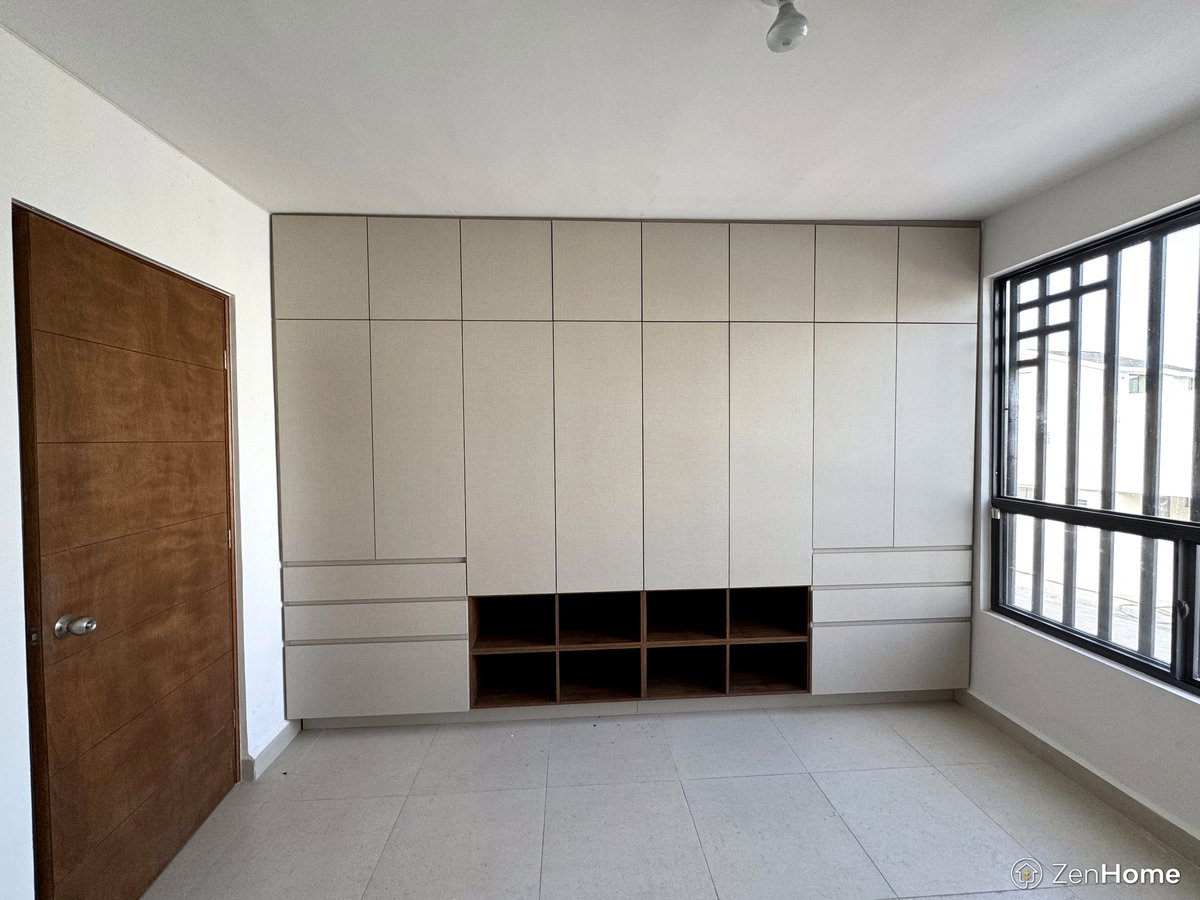
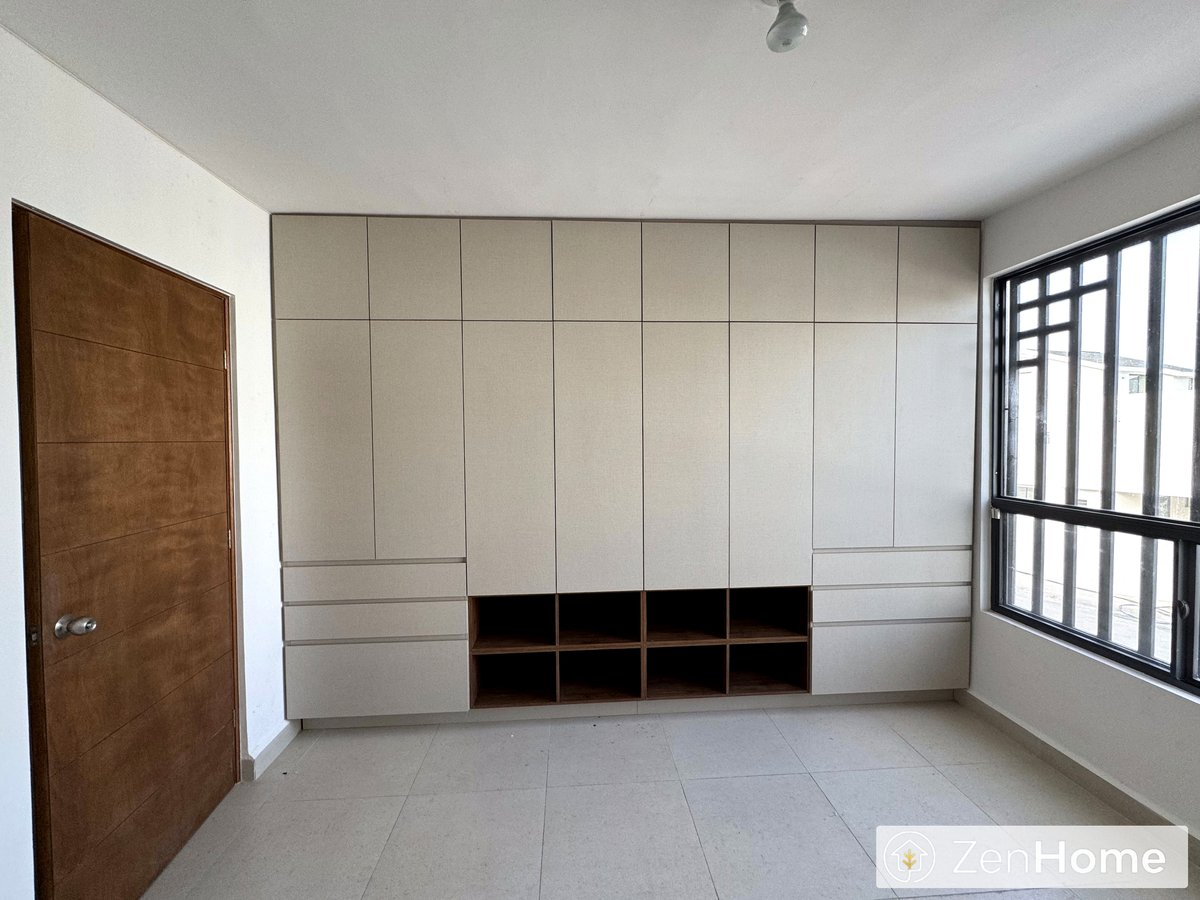
Fix carousel, add YouTube video section

Changed region(s): [[0.7092, 0.9022, 1.0, 0.9956]]

diff --git a/closets-monterrey/index.html b/closets-monterrey/index.html
@@ -1003,6 +1003,49 @@
             }
         }
 
+        /* ===== VIDEO SECTION ===== */
+        .video-section {
+            padding: 4rem 0;
+            background: var(--dark);
+            color: white;
+        }
+
+        .video-section .section-title {
+            color: white;
+        }
+
+        .video-section .section-subtitle {
+            color: rgba(255,255,255,0.7);
+            font-size: 1.1rem;
+            max-width: 600px;
+            margin: 0.5rem auto 2rem;
+            text-align: center;
+        }
+
+        .video-container {
+            max-width: 800px;
+            margin: 0 auto;
+            border-radius: 12px;
+            overflow: hidden;
+            box-shadow: 0 8px 30px rgba(0,0,0,0.4);
+        }
+
+        .video-container .video-wrapper {
+            position: relative;
+            padding-bottom: 56.25%;
+            height: 0;
+            overflow: hidden;
+        }
+
+        .video-container .video-wrapper iframe {
+            position: absolute;
+            top: 0;
+            left: 0;
+            width: 100%;
+            height: 100%;
+            border: 0;
+        }
+
         /* ===== GALLERY / CAROUSEL ===== */
         .gallery {
             padding: 4rem 0;
@@ -1279,22 +1322,20 @@
                         <img src="img/closet-proyecto-1.jpg" alt="Clóset moderno a la medida con acabado beige y compartimentos abiertos — Proyecto ZenHome Monterrey" loading="lazy">
                         <div class="slide-caption">Clóset integral con organización de calzado</div>
                     </div>
-                    <div class="carousel-slide">
-                        <video src="Proyectos Closets para pagina web/IMG_4802 2.MOV" muted playsinline loop preload="metadata" poster="img/closet-proyecto-1.jpg"></video>
-                        <div class="slide-caption">Video: Acabados y detalles de instalación</div>
-                    </div>
                     <!-- Agregar más slides aquí cuando haya más fotos disponibles -->
-                    <!--
-                    <div class="carousel-slide">
-                        <img src="img/closet-proyecto-2.jpg" alt="Vestidor moderno ZenHome" loading="lazy">
-                        <div class="slide-caption">Vestidor con iluminación LED integrada</div>
-                    </div>
-                    -->
                 </div>
-                <div class="carousel-controls">
-                    <button class="carousel-btn" id="prevBtn" aria-label="Anterior">&#8249;</button>
-                    <div class="carousel-dots" id="carouselDots"></div>
-                    <button class="carousel-btn" id="nextBtn" aria-label="Siguiente">&#8250;</button>
+            </div>
+        </div>
+    </section>
+
+    <!-- VIDEO YOUTUBE -->
+    <section class="video-section" id="video">
+        <div class="section-container">
+            <h2 class="section-title">Mira Nuestro Trabajo en Acción</h2>
+            <p class="section-subtitle">Conoce el proceso y los resultados de nuestros proyectos de clósets a la medida</p>
+            <div class="video-container">
+                <div class="video-wrapper">
+                    <iframe src="https://www.youtube.com/embed/bYZzR1KHOLk" title="Clósets a la Medida ZenHome Monterrey" allow="accelerometer; autoplay; clipboard-write; encrypted-media; gyroscope; picture-in-picture" allowfullscreen loading="lazy"></iframe>
                 </div>
             </div>
         </div>
